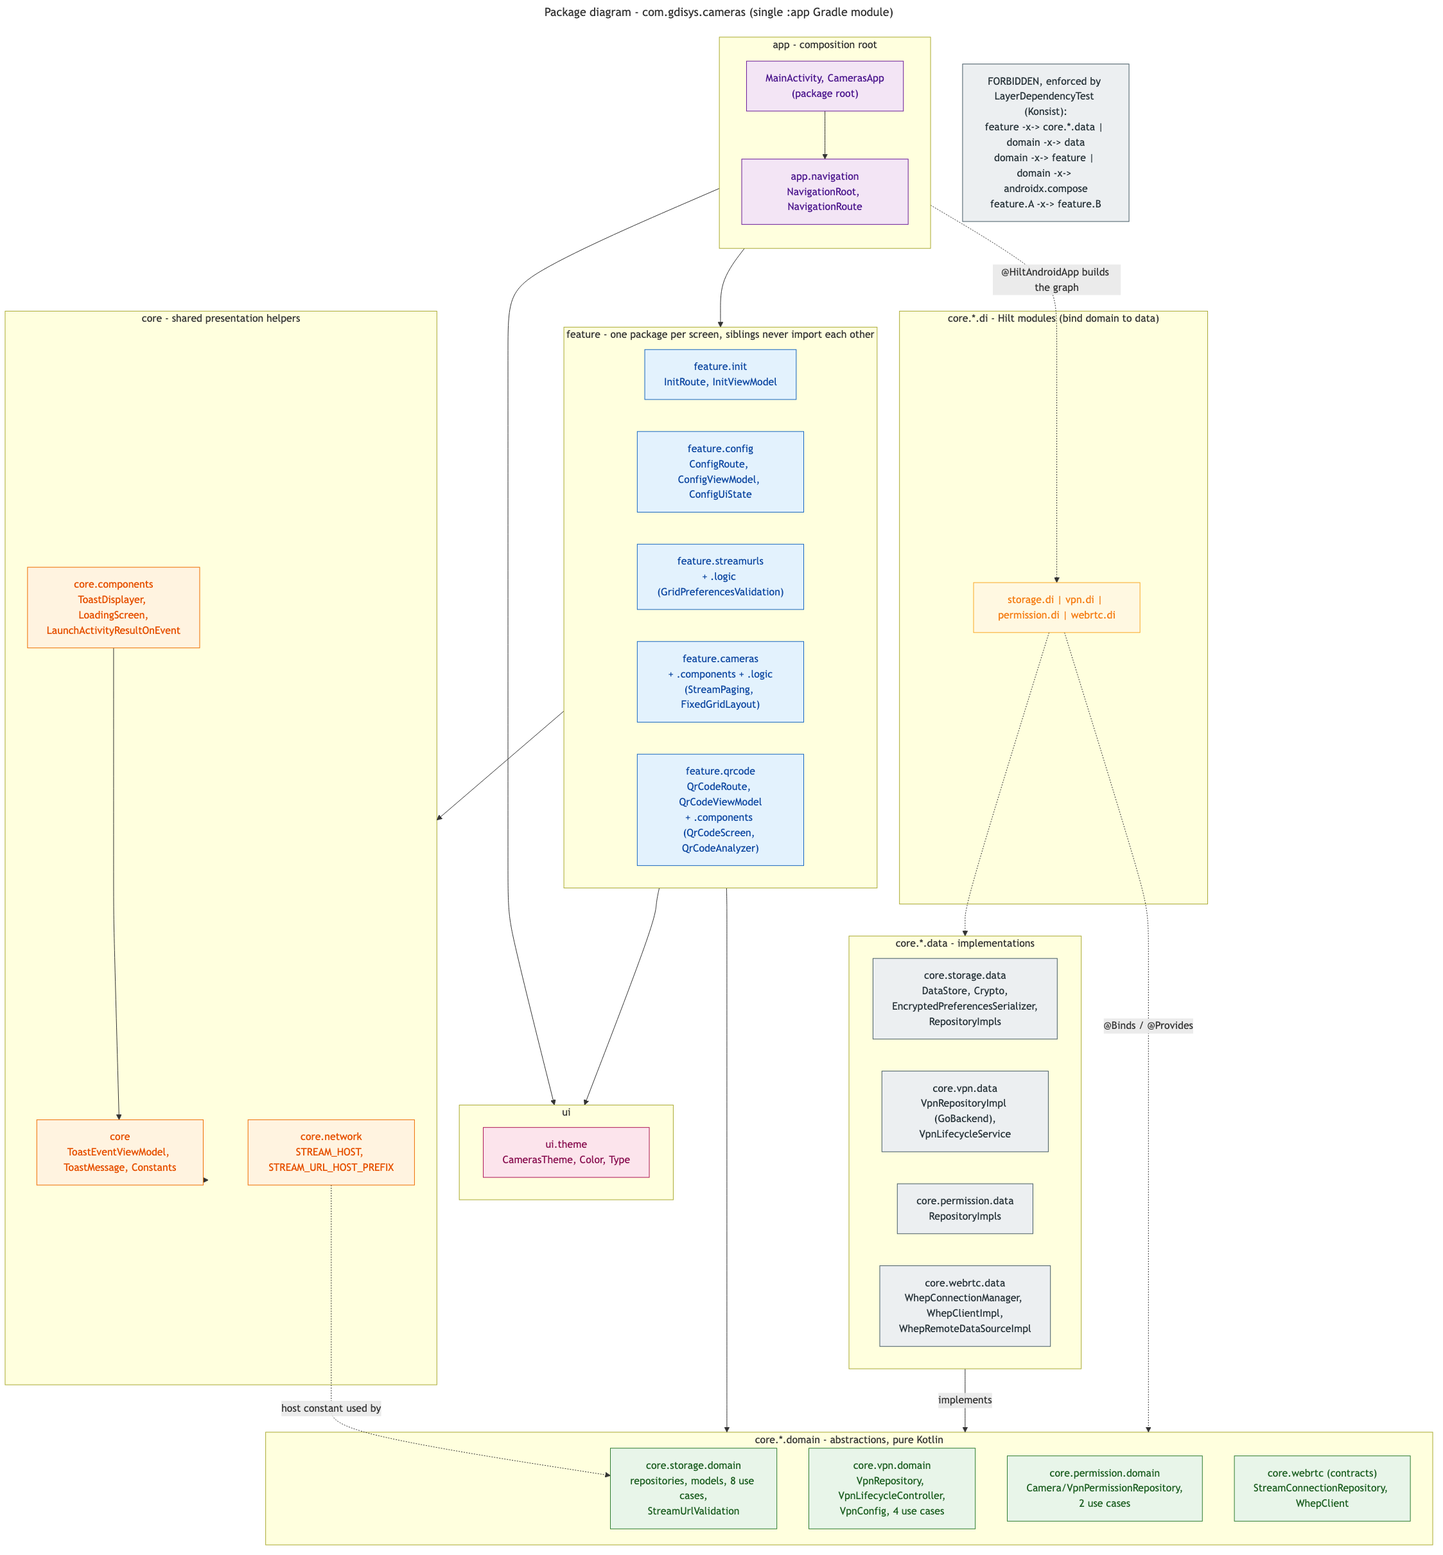
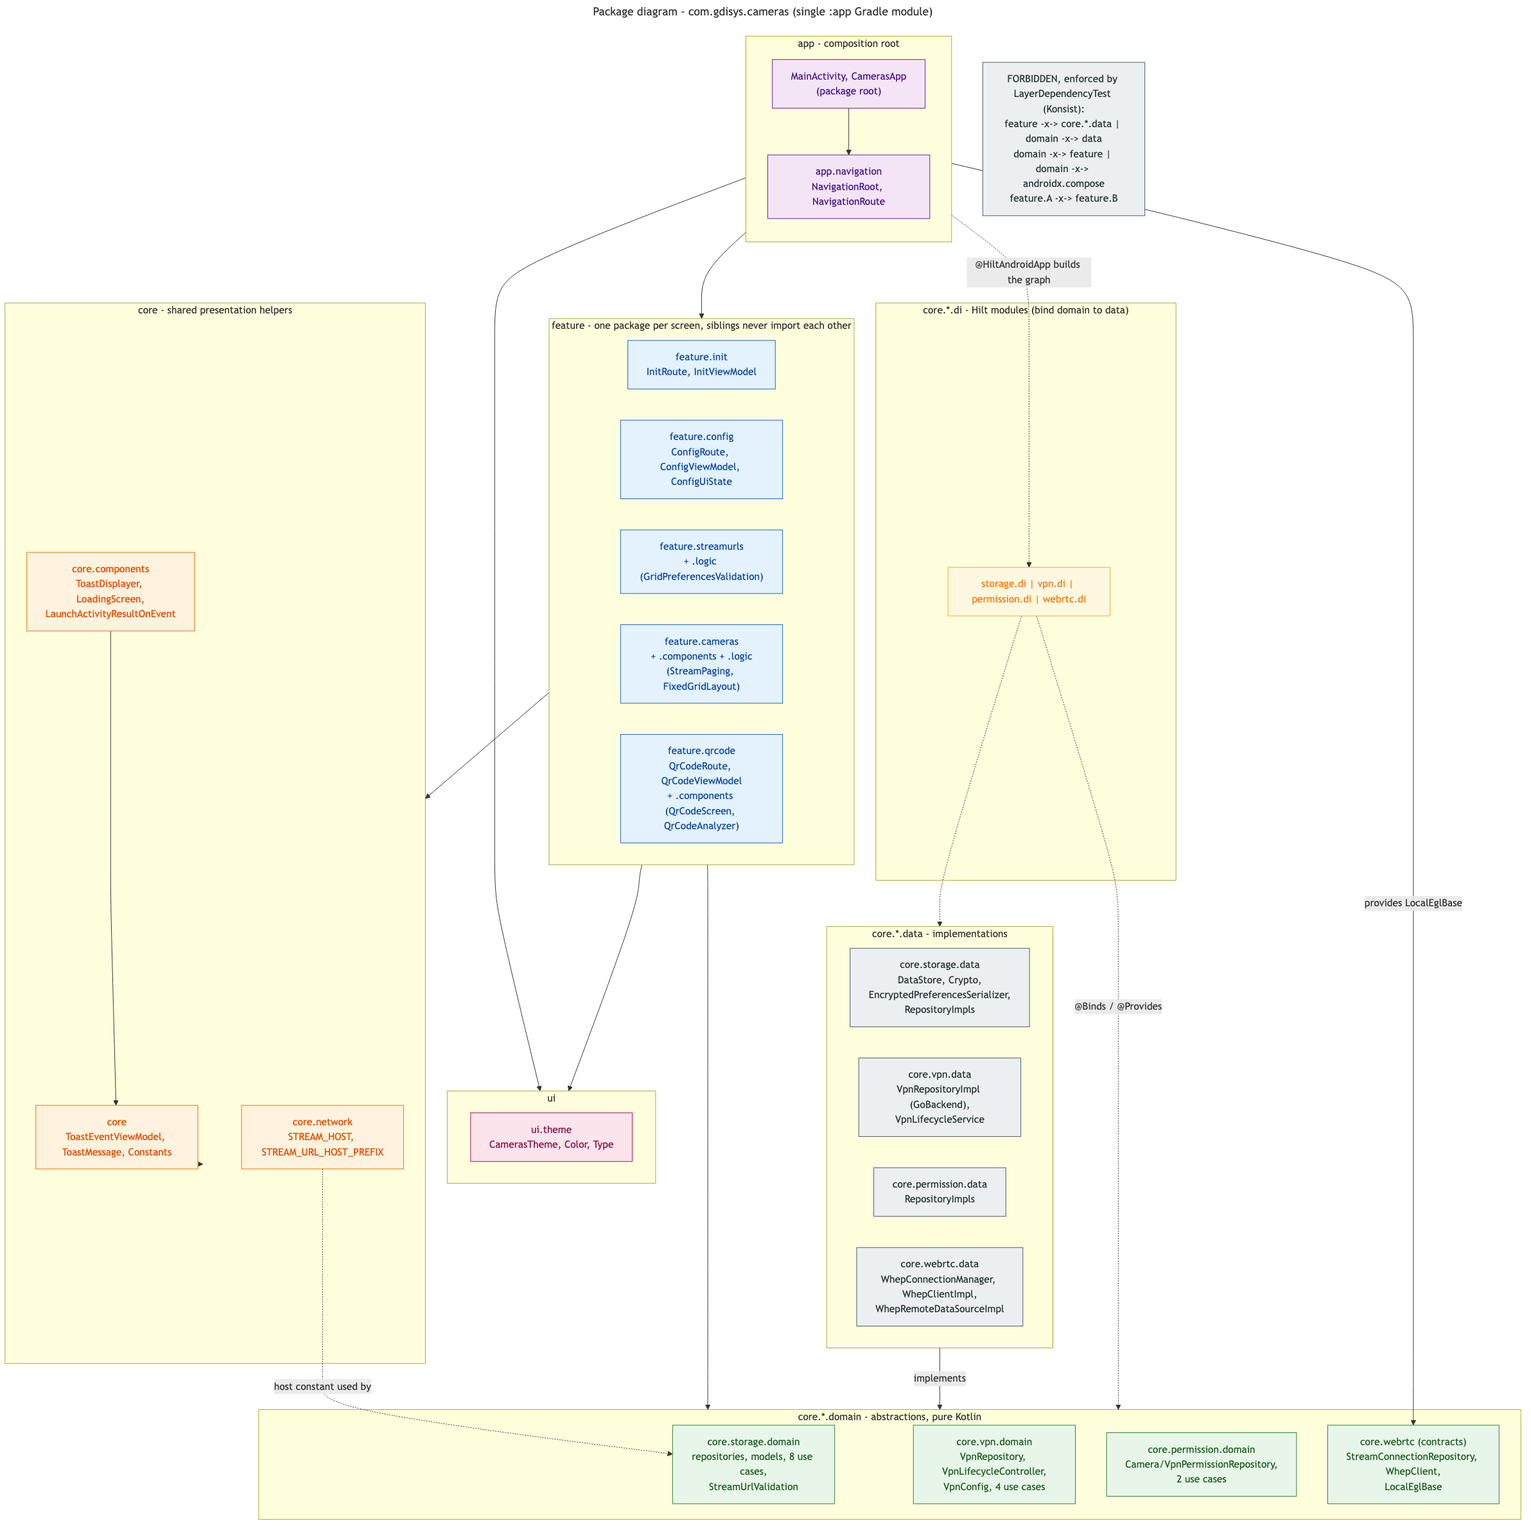
refactor: keep SDK and platform types off the layer boundaries (§9.2.6, §9.2.7, §9.2.8)
EglBase (§9.2.6): MainActivity now provides it as LocalEglBase, a new
CompositionLocal in core/webrtc — the package that already owns WebRTC SDK types
deliberately. NavigationRoot and HomeRoute lose their eglBase parameters, so no
WebRTC type appears in the navigation graph's signature. HomeScreen keeps its
explicit parameter: it is pure and previewable and must not read an ambient
value. Exposing eglBase from HomeViewModel was rejected — it would put an SDK
type on the ViewModel boundary, which is the shape §9.2.7 complains about.

Intent (§9.2.7): VpnPermissionUiEvent.RequestPermission becomes a payload-free
data object. ConfigViewModel still calls RequestVpnPermissionUseCase to decide
between emitting the event and toasting PERMISSION_ALREADY_GRANTED, but discards
the Intent; ConfigRoute builds it with VpnService.prepare(context) and drops the
event when that returns null. Option (b) of the two offered: option (a) would
have had the data layer hand the same Intent to the route through a domain
accessor, relocating the leak rather than removing it. Routes already own
platform round-trips, and the test got shorter.

updateUserPreferences (§9.2.8): DataStoreManager now takes a transform, mirroring
StreamPreferencesDataStoreManager, so a partial update no longer has to read and
rewrite the whole object. UserPreferencesRepositoryImpl passes `{ preferences }`,
so today's behavior is unchanged; a new test pins that the transform really
receives the persisted value.

diff --git a/app/src/main/java/com/gdisys/cameras/feature/config/ConfigRoute.kt b/app/src/main/java/com/gdisys/cameras/feature/config/ConfigRoute.kt
@@ -2,12 +2,14 @@ package com.gdisys.cameras.feature.config
 
 import android.Manifest
 import android.app.Activity.RESULT_OK
+import android.net.VpnService
 import androidx.activity.compose.BackHandler
 import androidx.activity.compose.LocalActivity
 import androidx.activity.result.contract.ActivityResultContracts
 import androidx.compose.runtime.Composable
 import androidx.compose.runtime.LaunchedEffect
 import androidx.compose.runtime.getValue
+import androidx.compose.ui.platform.LocalContext
 import androidx.core.app.ActivityCompat
 import androidx.hilt.lifecycle.viewmodel.compose.hiltViewModel
 import androidx.lifecycle.Lifecycle
@@ -18,6 +20,7 @@ import com.gdisys.cameras.core.components.ToastDisplayer
 import com.gdisys.cameras.feature.config.components.ConfigScreen
 import kotlinx.coroutines.flow.filterIsInstance
 import kotlinx.coroutines.flow.map
+import kotlinx.coroutines.flow.mapNotNull
 
 @Composable
 fun ConfigRoute(
@@ -31,6 +34,7 @@ fun ConfigRoute(
 ) {
   val uiState by viewModel.uiState.collectAsStateWithLifecycle()
   val activity = LocalActivity.current
+  val context = LocalContext.current
 
   // A permissão de câmera pode ser concedida externamente, pelas configurações
   // do sistema, enquanto esta tela está em segundo plano.
@@ -67,10 +71,13 @@ fun ConfigRoute(
     }
   }
 
+  // The consent Intent is built here, not in the ViewModel. `VpnService.prepare` returns null when
+  // consent has already been given, in which case there is nothing to launch — `mapNotNull` drops
+  // the event and the ViewModel's own check has already toasted PERMISSION_ALREADY_GRANTED.
   LaunchActivityResultOnEvent(
     events = viewModel.vpnPermissionUiEvent
       .filterIsInstance<VpnPermissionUiEvent.RequestPermission>()
-      .map { it.intent },
+      .mapNotNull { VpnService.prepare(context) },
     contract = ActivityResultContracts.StartActivityForResult()
   ) { result ->
     if (result.resultCode == RESULT_OK) {

diff --git a/app/src/test/java/com/gdisys/cameras/core/storage/data/DataStoreManagerTest.kt b/app/src/test/java/com/gdisys/cameras/core/storage/data/DataStoreManagerTest.kt
@@ -28,15 +28,35 @@ class DataStoreManagerTest {
   }
 
   @Test
-  fun `updateUserPreferences replaces the stored value with the given preferences`() = runTest {
+  fun `updateUserPreferences applies the given transform to the stored value`() = runTest {
     every { dataStore.data } returns flowOf(UserPreferences())
     val newPreferences = UserPreferences(vpnConfigTokens = VpnConfigTokens(iPrk = "private-key"))
     val transform = slot<suspend (UserPreferences) -> UserPreferences>()
     coEvery { dataStore.updateData(capture(transform)) } returns newPreferences
 
     val manager = DataStoreManager(dataStore)
-    manager.updateUserPreferences(newPreferences)
+    manager.updateUserPreferences { newPreferences }
 
     assertEquals(newPreferences, transform.captured(UserPreferences()))
+  }
+
+  @Test
+  fun `updateUserPreferences hands the persisted value to the transform`() = runTest {
+    every { dataStore.data } returns flowOf(UserPreferences())
+    val persisted = UserPreferences(vpnConfigTokens = VpnConfigTokens(iPrk = "persisted-key"))
+    val transform = slot<suspend (UserPreferences) -> UserPreferences>()
+    coEvery { dataStore.updateData(capture(transform)) } returns persisted
+
+    val manager = DataStoreManager(dataStore)
+    manager.updateUserPreferences { current ->
+      current.copy(vpnConfigTokens = current.vpnConfigTokens?.copy(iAddr = "10.0.0.2"))
+    }
+
+    // The point of the transform overload: a caller can rewrite one field and keep the rest,
+    // instead of having to supply a complete object and clobber whatever it did not know about.
+    assertEquals(
+      UserPreferences(vpnConfigTokens = VpnConfigTokens(iPrk = "persisted-key", iAddr = "10.0.0.2")),
+      transform.captured(persisted)
+    )
   }
 }

diff --git a/app/src/test/java/com/gdisys/cameras/core/storage/data/UserPreferencesRepositoryImplTest.kt b/app/src/test/java/com/gdisys/cameras/core/storage/data/UserPreferencesRepositoryImplTest.kt
@@ -3,11 +3,12 @@ package com.gdisys.cameras.core.storage.data
 import com.gdisys.cameras.core.storage.domain.model.UserPreferences
 import com.gdisys.cameras.core.storage.domain.model.VpnConfigTokens
 import io.mockk.coEvery
-import io.mockk.coVerify
 import io.mockk.every
 import io.mockk.mockk
+import io.mockk.slot
 import kotlinx.coroutines.flow.flowOf
 import kotlinx.coroutines.test.runTest
+import org.junit.Assert.assertEquals
 import org.junit.Assert.assertSame
 import org.junit.Test
 
@@ -26,14 +27,18 @@ class UserPreferencesRepositoryImplTest {
   }
 
   @Test
-  fun `updateUserPreferences delegates to the data store manager`() = runTest {
+  fun `updateUserPreferences replaces the stored value wholesale`() = runTest {
     every { dataStoreManager.userPrefsState } returns flowOf(UserPreferences())
-    coEvery { dataStoreManager.updateUserPreferences(any()) } returns Unit
+    val transform = slot<(UserPreferences) -> UserPreferences>()
+    coEvery { dataStoreManager.updateUserPreferences(capture(transform)) } returns Unit
     val repository = UserPreferencesRepositoryImpl(dataStoreManager)
     val preferences = UserPreferences(vpnConfigTokens = VpnConfigTokens(iPrk = "private-key"))
 
     repository.updateUserPreferences(preferences)
 
-    coVerify(exactly = 1) { dataStoreManager.updateUserPreferences(preferences) }
+    // The repository contract takes a complete object, so its transform ignores what is stored.
+    // The manager underneath still takes a transform, which is what makes partial writes possible.
+    val stored = UserPreferences(vpnConfigTokens = VpnConfigTokens(iPrk = "stale-key"))
+    assertEquals(preferences, transform.captured(stored))
   }
 }

diff --git a/app/src/main/java/com/gdisys/cameras/feature/config/ConfigViewModel.kt b/app/src/main/java/com/gdisys/cameras/feature/config/ConfigViewModel.kt
@@ -1,6 +1,5 @@
 package com.gdisys.cameras.feature.config
 
-import android.content.Intent
 import android.util.Log
 import androidx.lifecycle.viewModelScope
 import com.gdisys.cameras.core.DEBUG_TAG
@@ -30,8 +29,13 @@ import javax.inject.Inject
 
 const val QR_CODE_RESULT_KEY = "qr_code_raw_json"
 
+/**
+ * Payload-free on purpose: the consent `Intent` is a platform object, and routes — not ViewModels —
+ * own platform round-trips. The ViewModel decides *whether* consent is needed; `ConfigRoute` builds
+ * the `Intent` and launches it.
+ */
 sealed interface VpnPermissionUiEvent {
-  data class RequestPermission(val intent: Intent): VpnPermissionUiEvent
+  data object RequestPermission : VpnPermissionUiEvent
 }
 
 @HiltViewModel
@@ -219,13 +223,13 @@ class ConfigViewModel @Inject constructor(
   }
 
   fun acceptVpnPermission() {
-    handleVpnPermissionIntent(requestVpnPermissionUseCase())
-  }
-
-  private fun handleVpnPermissionIntent(intent: Intent?) {
-    if(intent != null) {
+    // `RequestVpnPermissionUseCase` returns the consent Intent, or null when consent was already
+    // given. Only that distinction matters here; the Intent itself is discarded and rebuilt by the
+    // route, which is the layer allowed to touch platform types.
+    val needsConsent = requestVpnPermissionUseCase() != null
+    if (needsConsent) {
       viewModelScope.launch {
-        _vpnPermissionUiEvent.send(VpnPermissionUiEvent.RequestPermission(intent))
+        _vpnPermissionUiEvent.send(VpnPermissionUiEvent.RequestPermission)
       }
     } else {
       showToast(ConfigToastMessage.PERMISSION_ALREADY_GRANTED)

diff --git a/app/src/main/java/com/gdisys/cameras/core/webrtc/EglBaseCompositionLocal.kt b/app/src/main/java/com/gdisys/cameras/core/webrtc/EglBaseCompositionLocal.kt
@@ -1,0 +1,22 @@
+package com.gdisys.cameras.core.webrtc
+
+import androidx.compose.runtime.staticCompositionLocalOf
+import org.webrtc.EglBase
+
+/**
+ * Ambient [EglBase] for the whole composition.
+ *
+ * The shared EGL context is a process-wide singleton provided by Hilt, and the only place that can
+ * legitimately hold it is the composition root — `MainActivity`, which injects it. Passing it down
+ * by parameter instead would put a WebRTC SDK type in the signature of `NavigationRoot`, making the
+ * navigation graph depend on the video stack it merely routes to.
+ *
+ * It lives in `core/webrtc` rather than in `feature/cameras` because no single feature owns it:
+ * `core/webrtc` is already the package that deliberately handles WebRTC SDK types.
+ *
+ * This is for routes, not for screens. Screens take `EglBase` as an explicit parameter so they stay
+ * pure and previewable.
+ */
+val LocalEglBase = staticCompositionLocalOf<EglBase> {
+  error("LocalEglBase not provided")
+}

diff --git a/app/src/main/java/com/gdisys/cameras/feature/cameras/HomeRoute.kt b/app/src/main/java/com/gdisys/cameras/feature/cameras/HomeRoute.kt
@@ -17,17 +17,20 @@ import com.gdisys.cameras.R
 import com.gdisys.cameras.core.components.LoadingScreen
 import com.gdisys.cameras.core.components.ToastDisplayer
 import com.gdisys.cameras.core.storage.domain.model.StreamOrientation
+import com.gdisys.cameras.core.webrtc.LocalEglBase
 import com.gdisys.cameras.feature.cameras.components.EmptyStreamsScreen
 import com.gdisys.cameras.feature.cameras.components.HomeScreen
-import org.webrtc.EglBase
 
 @Composable
 fun HomeRoute(
   viewModel: HomeViewModel = hiltViewModel(),
-  eglBase: EglBase,
   onNavigateToConfig: () -> Unit
 ) {
   val activity = LocalActivity.current
+
+  // HomeScreen keeps EglBase as an explicit parameter so it stays previewable; the route is the
+  // layer that reads it off the composition.
+  val eglBase = LocalEglBase.current
 
   // Decisão P1: a orientação vem da Configuration e é empurrada para o ViewModel, que escolhe a
   // ordem e a grade correspondentes.

diff --git a/app/src/main/java/com/gdisys/cameras/MainActivity.kt b/app/src/main/java/com/gdisys/cameras/MainActivity.kt
@@ -4,8 +4,10 @@ import android.os.Bundle
 import androidx.activity.ComponentActivity
 import androidx.activity.compose.setContent
 import androidx.activity.enableEdgeToEdge
+import androidx.compose.runtime.CompositionLocalProvider
 import androidx.navigation.compose.rememberNavController
 import com.gdisys.cameras.app.navigation.NavigationRoot
+import com.gdisys.cameras.core.webrtc.LocalEglBase
 import com.gdisys.cameras.ui.theme.CamerasTheme
 import dagger.hilt.android.AndroidEntryPoint
 import org.webrtc.EglBase
@@ -22,10 +24,9 @@ class MainActivity : ComponentActivity() {
     enableEdgeToEdge()
     setContent {
       CamerasTheme {
-        NavigationRoot(
-          navController = rememberNavController(),
-          eglBase = eglBase
-        )
+        CompositionLocalProvider(LocalEglBase provides eglBase) {
+          NavigationRoot(navController = rememberNavController())
+        }
       }
     }
   }

diff --git a/app/src/main/java/com/gdisys/cameras/core/storage/data/DataStoreManager.kt b/app/src/main/java/com/gdisys/cameras/core/storage/data/DataStoreManager.kt
@@ -13,9 +13,17 @@ class DataStoreManager @Inject constructor(
 ) {
   val userPrefsState: Flow<UserPreferences> = dataStore.data
 
-  suspend fun updateUserPreferences(userPreferences: UserPreferences) {
+  /**
+   * Rewrites the stored preferences through [transform], which receives the value persisted at
+   * write time.
+   *
+   * Mirrors `StreamPreferencesDataStoreManager.updateStreamPreferences`. Taking a transform rather
+   * than a finished object is what makes a partial update possible: the caller can rewrite one
+   * slice of the file without having to read it first and race another writer.
+   */
+  suspend fun updateUserPreferences(transform: (UserPreferences) -> UserPreferences) {
     dataStore.updateData {
-      userPreferences
+      transform(it)
     }
   }
 }

diff --git a/app/src/test/java/com/gdisys/cameras/feature/config/ConfigViewModelTest.kt b/app/src/test/java/com/gdisys/cameras/feature/config/ConfigViewModelTest.kt
@@ -400,14 +400,14 @@ class ConfigViewModelTest {
   }
 
   @Test
-  fun `acceptVpnPermission emits a request permission event when an intent is returned`() = runTest {
-    val intent = mockk<Intent>()
-    every { requestVpnPermissionUseCase() } returns intent
+  fun `acceptVpnPermission emits a request permission event when consent is still needed`() = runTest {
+    every { requestVpnPermissionUseCase() } returns mockk<Intent>()
 
     viewModel.vpnPermissionUiEvent.test {
       viewModel.acceptVpnPermission()
 
-      assertEquals(VpnPermissionUiEvent.RequestPermission(intent), awaitItem())
+      // The event carries no payload: the consent Intent is the route's to build and launch.
+      assertEquals(VpnPermissionUiEvent.RequestPermission, awaitItem())
     }
   }
 

diff --git a/app/src/main/java/com/gdisys/cameras/app/navigation/NavigationRoot.kt b/app/src/main/java/com/gdisys/cameras/app/navigation/NavigationRoot.kt
@@ -19,12 +19,10 @@ import com.gdisys.cameras.feature.config.QR_CODE_RESULT_KEY
 import com.gdisys.cameras.feature.init.InitRoute
 import com.gdisys.cameras.feature.qrcode.QrCodeRoute
 import com.gdisys.cameras.feature.streamurls.StreamURLsRoute
-import org.webrtc.EglBase
 
 @Composable
 fun NavigationRoot(
-  navController: NavHostController,
-  eglBase: EglBase
+  navController: NavHostController
 ) {
   NavHost(
     navController = navController,
@@ -97,7 +95,6 @@ fun NavigationRoot(
 
     composable<NavigationRoute.Home> {
       HomeRoute(
-        eglBase = eglBase,
         onNavigateToConfig = {
           navController.navigate(NavigationRoute.Config)
         }

diff --git a/app/src/main/java/com/gdisys/cameras/core/storage/data/UserPreferencesRepositoryImpl.kt b/app/src/main/java/com/gdisys/cameras/core/storage/data/UserPreferencesRepositoryImpl.kt
@@ -15,6 +15,6 @@ class UserPreferencesRepositoryImpl @Inject constructor(
   override val userPreferences: Flow<UserPreferences> = dataStoreManager.userPrefsState
 
   override suspend fun updateUserPreferences(userPreferences: UserPreferences) {
-    dataStoreManager.updateUserPreferences(userPreferences)
+    dataStoreManager.updateUserPreferences { userPreferences }
   }
 }

diff --git a/docs/architecture.md b/docs/architecture.md
@@ -237,6 +237,10 @@ Points of interest:
 - **Platform round-trips are events, not state.** VPN consent and the camera permission request are
   emitted as `Channel` events and launched by the reusable
   `LaunchActivityResultOnEvent` composable (`core/components/ActivityResultEventEffect.kt`).
+  `VpnPermissionUiEvent.RequestPermission` is deliberately payload-free: the ViewModel decides
+  *whether* consent is needed (`RequestVpnPermissionUseCase() != null`) and `ConfigRoute` builds the
+  `Intent` with `VpnService.prepare(context)`. No `android.content.Intent` crosses the ViewModel
+  boundary, and a `null` from `prepare` simply launches nothing.
 - **QR result arrives via navigation, not a shared ViewModel.** `QrCodeRoute` writes the raw JSON
   into `previousBackStackEntry.savedStateHandle[QR_CODE_RESULT_KEY]`; `ConfigRoute` observes it,
   hands it to `onQrCodeScanned`, then clears it through `onQrCodeResultConsumed`.
@@ -401,9 +405,12 @@ reporting is a data concern. `GetStreamPreferencesUseCase` then decides what the
 `catch`ing into empty preferences so a corrupt file degrades to the "no URLs configured" screen
 instead of cancelling every collector's `combine` and freezing the UI.
 
-**Scoped writes.** `StreamPreferencesRepository.updateStreamPreferences { current -> ... }` takes a
-transform receiving the value persisted at write time, which is what lets three different use cases
-each rewrite only their own slice of the same file atomically.
+**Scoped writes.** Both DataStore managers take a transform receiving the value persisted at write
+time — `updateStreamPreferences { current -> ... }` and `updateUserPreferences { current -> ... }` —
+which is what lets several use cases each rewrite only their own slice of the same file atomically,
+with no read-then-write race. `UserPreferencesRepository` still exposes a wholesale
+`updateUserPreferences(userPreferences)`, because every caller today writes a complete object; the
+transform underneath is what makes a partial write possible when one is needed.
 
 ### 6.2 `core/vpn` — WireGuard tunnel
 
@@ -443,6 +450,13 @@ dependency instead of pretending to be pure domain.
 for every screen opened after the first was destroyed. `WhepClientImpl` is likewise
 `ViewModelComponent`-bound because it holds a mutable `peerConnection`. Only the stateless
 `WhepRemoteDataSource` and the `PeerConnectionFactory` / `EglBase` are singletons.
+
+**`EglBase` reaches the UI as a `CompositionLocal`, not as a parameter.** `MainActivity` injects the
+singleton and provides `LocalEglBase` (`core/webrtc/EglBaseCompositionLocal.kt`) around the whole
+composition; `HomeRoute` reads it and passes it to `HomeScreen` explicitly. Threading it down as a
+parameter instead would put a WebRTC SDK type in `NavigationRoot`'s signature, making the navigation
+graph depend on the video stack it only routes to. The local stops at the route on purpose —
+`HomeScreen` keeps an explicit `eglBase` parameter so it stays pure and previewable.
 
 ### 6.4 `core/permission`
 
@@ -637,22 +651,6 @@ defect — not a work plan.
    knowing: `LayerDependencyTest` scopes its domain rules to `core..domain..`, so none of them
    apply to `core/webrtc`. What actually protects the boundary there is the separate
    `feature → .data.` rule.
-
-6. **`EglBase` is threaded through the navigation layer.** `MainActivity` injects it, passes it to
-   `NavigationRoot`, which passes it to `HomeRoute`, which passes it to `HomeScreen`. A WebRTC SDK
-   type therefore appears in the signature of the app's navigation graph. Injecting it where it is
-   used (or exposing it through the existing `LocalWebRtcConnection`) would keep the SDK out of
-   `app/navigation`.
-
-7. **`ConfigViewModel` exposes an `android.content.Intent`** in `VpnPermissionUiEvent.RequestPermission`.
-   Pragmatic — it is what `VpnService.prepare()` returns and what the launcher consumes — but it is
-   a platform type crossing the ViewModel boundary.
-
-8. **`DataStoreManager.updateUserPreferences` ignores the current value** (`updateData { userPreferences }`),
-   unlike its stream-preferences sibling, which takes a transform. User preferences can therefore
-   only be replaced wholesale, never partially updated. This is invisible today because
-   `ConfigViewModel` always writes a complete object, but it is an asymmetry waiting to surprise
-   the next writer of a partial update.
 
 ### 9.3 Configuration drift
 
